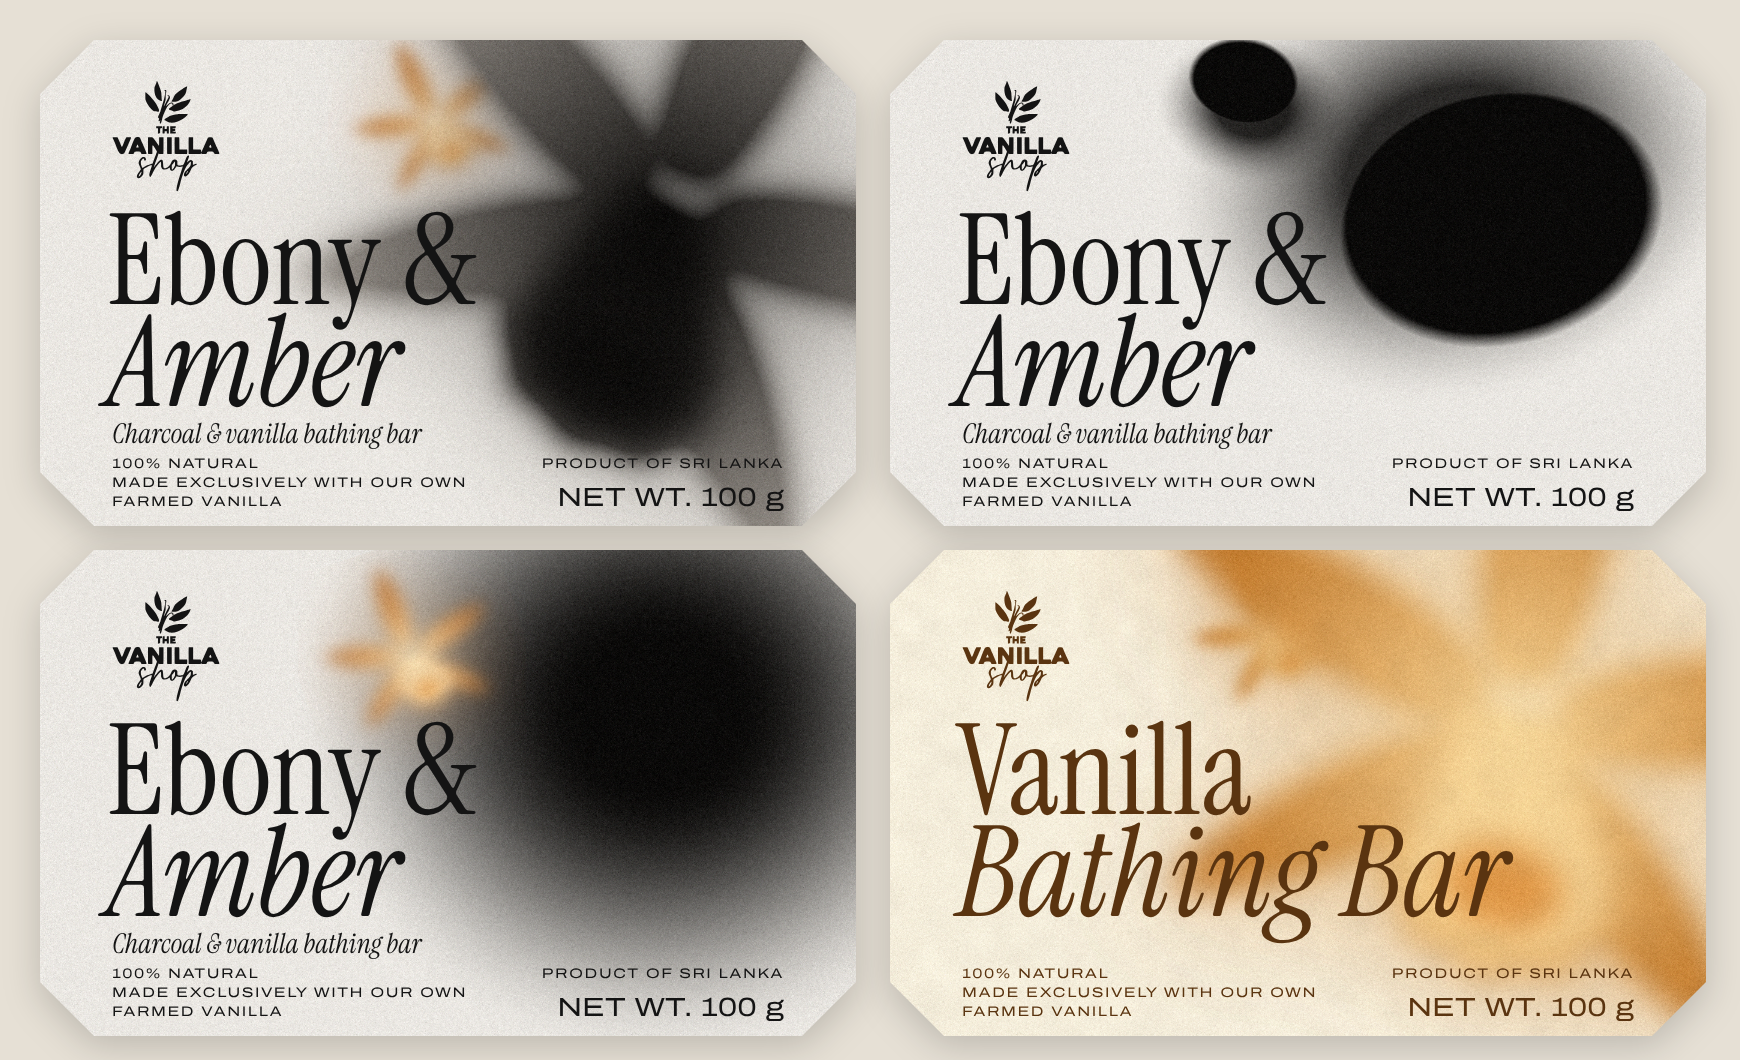
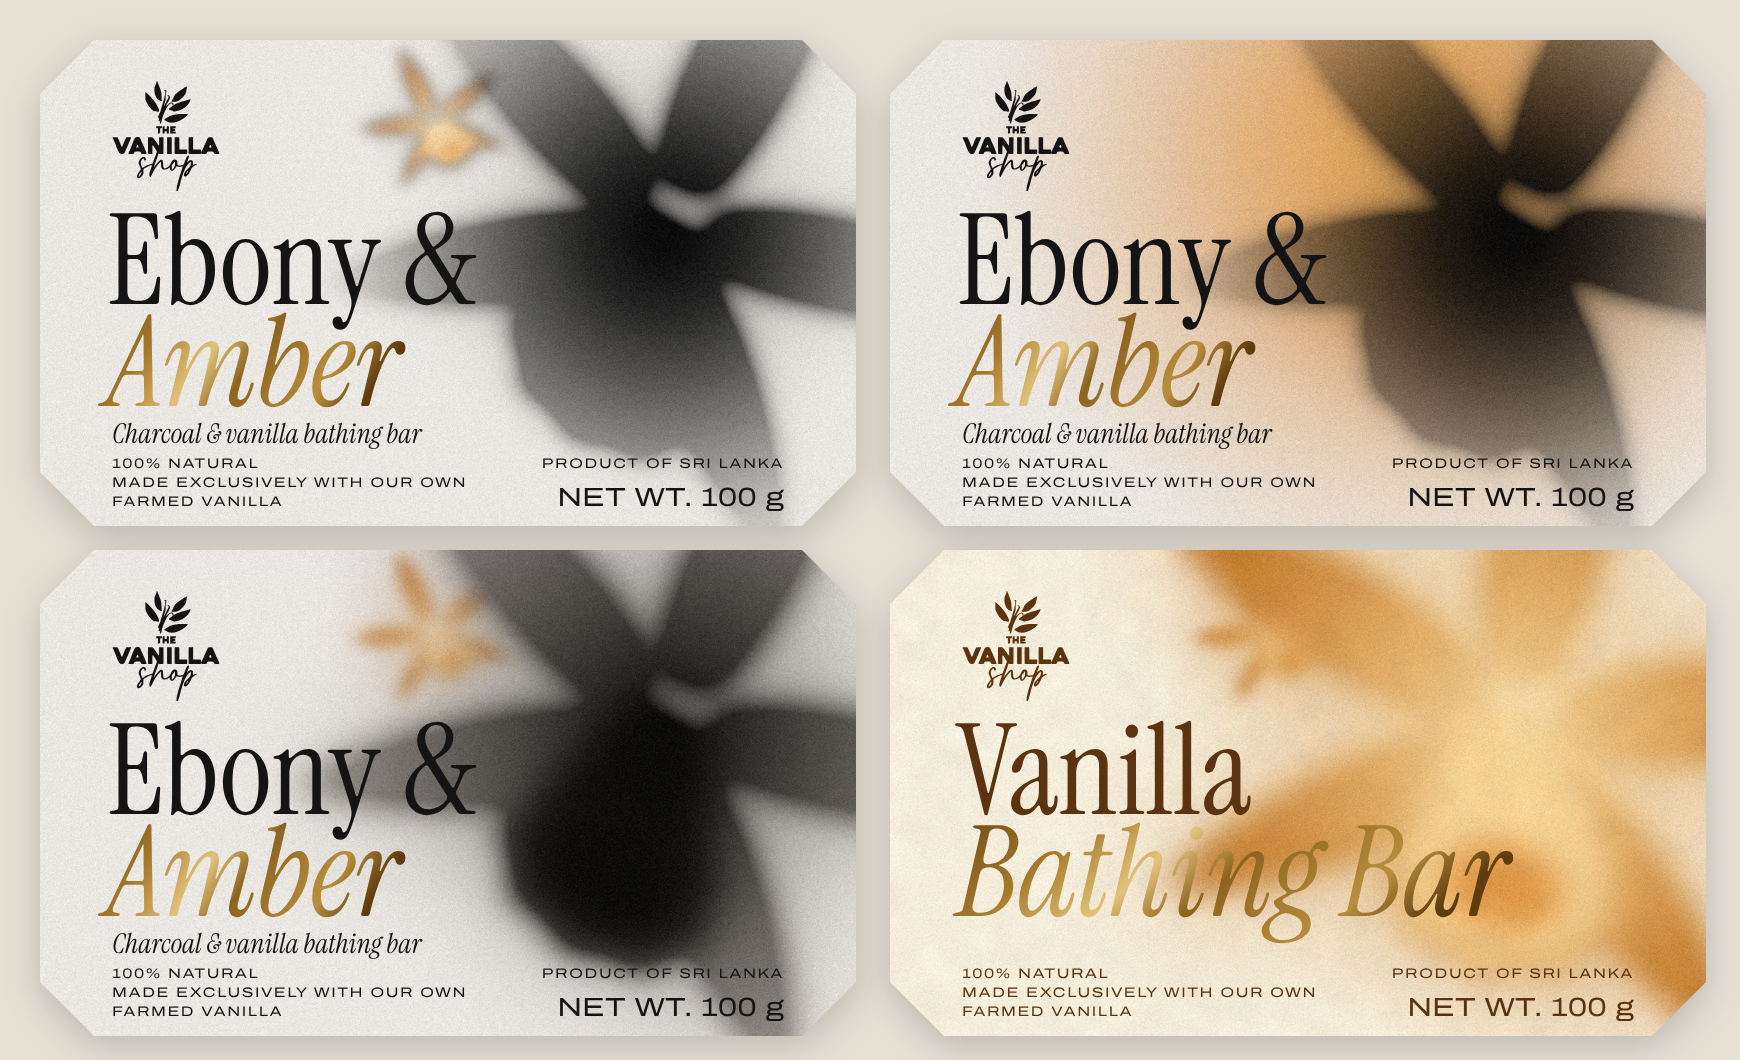
Soap Bloom duo: gold foil on the italic names; Ebony as a black shadow-flower, plain and amber-backlit
Claude-Session: https://claude.ai/code/session_01Psd6wLDi15Gf4F1fXEFmxS

diff --git a/vanilla-shop/studies/soap/bloom-duo/octo8.py b/vanilla-shop/studies/soap/bloom-duo/octo8.py
@@ -11,6 +11,8 @@ SOAPS={'vanilla':dict(small=None,big='Vanilla',kind='BATHING BAR',dk='#4A2C08',b
        'ebony':dict(small='Ebony &',big='Amber',kind='CHARCOAL & VANILLA BATHING BAR',dk='#1F1B19',bgB='#1F1B19'),
        'aloe':dict(small='Vanilla &',big='Aloe Vera',kind='VANILLA & ALOE BATHING BAR',dk='#16301C',bgB='#3F7A47')}
 ORDER=['vanilla','rosette','ebony','aloe']
+FOIL2=('<linearGradient id="foil2" x1="0" y1="0" x2="1" y2="0.35"><stop offset="0" stop-color="#5E3C0E"/><stop offset="0.28" stop-color="#A67A2C"/>'
+       '<stop offset="0.46" stop-color="#E2C27A"/><stop offset="0.6" stop-color="#8C6420"/><stop offset="0.85" stop-color="#B98E3E"/><stop offset="1" stop-color="#5E3C0E"/></linearGradient>')
 FOIL=('<linearGradient id="foil" x1="0" y1="0" x2="1" y2="1"><stop offset="0" stop-color="#8A6424"/><stop offset="0.3" stop-color="#F6DE97"/>'
       '<stop offset="0.5" stop-color="#B98B3A"/><stop offset="0.72" stop-color="#FFF0BE"/><stop offset="1" stop-color="#93692A"/></linearGradient>')
 def T(x,y,s,t,f='G',c='#000',a='start',tr=0): return f'<text x="{x}" y="{y}" font-family="{f}" font-size="{s}" fill="{c}" text-anchor="{a}" letter-spacing="{tr}">{t}</text>'
@@ -153,19 +155,19 @@ def front_bloom(k,art=None):
     b=[f'<image href="file:///tmp/claude-0/-home-user-PersonalEventPlanner305App/0712b206-ea71-562e-9a83-45f8f096455f/scratchpad/soap/b3/{art}" x="-7" y="-7" width="150" height="95" preserveAspectRatio="none"/>',
        logo(x+9,16,18,ink),
        f'<text x="{x-0.8}" y="44" font-family="ISR" font-size="21" fill="{ink}">{l1}</text>',
-       f'<text x="{x-0.8}" y="61" font-family="IS" font-size="21" fill="{ink}">{l2}</text>',
+       f'<text x="{x-0.8}" y="61" font-family="IS" font-size="21" fill="url(#foil2)">{l2}</text>',
        (f'<text x="{x}" y="67.2" font-family="IS" font-size="4.6" fill="{ink}">{FD[k]}</text>' if k!='vanilla' else ''),
        f'<text x="{x}" y="71.4" font-family="AE" font-size="2.3" fill="{ink}" letter-spacing="0.25">100% NATURAL</text>',
        f'<text x="{x}" y="74.5" font-family="AE" font-size="2.3" fill="{ink}" letter-spacing="0.25">MADE EXCLUSIVELY WITH OUR OWN</text>',
        f'<text x="{x}" y="77.6" font-family="AE" font-size="2.3" fill="{ink}" letter-spacing="0.25">FARMED VANILLA</text>',
        f'<text x="124" y="71.4" font-family="AE" font-size="2.3" fill="{ink}" letter-spacing="0.25" text-anchor="end">PRODUCT OF SRI LANKA</text>',
        f'<text x="124" y="77.6" font-family="AE" font-size="4.4" fill="{ink}" text-anchor="end">NET WT. 100 g</text>']
-    return (f'<svg xmlns="http://www.w3.org/2000/svg" viewBox="0 0 {W} {H}" width="100%" height="100%"><defs><clipPath id="oc"><path d="{octa()}"/></clipPath></defs>'
+    return (f'<svg xmlns="http://www.w3.org/2000/svg" viewBox="0 0 {W} {H}" width="100%" height="100%"><defs>{FOIL2}<clipPath id="oc"><path d="{octa()}"/></clipPath></defs>'
             f'<g clip-path="url(#oc)">{"".join(b)}</g></svg>')
 def front(opt,k):
     if opt=='E': return front_engr(k)
     if opt=='F': return front_bloom(k)
-    if opt in ('F1','F2','F3'): return front_bloom('ebony','D-ebony-'+opt[1]+'.png')
+    if opt in ('F1','F2','F3','F4','F5'): return front_bloom('ebony','D-ebony-'+opt[1]+'.png')
     if opt=='F0': return front_engr(k,'/tmp/claude-0/-home-user-PersonalEventPlanner305App/0712b206-ea71-562e-9a83-45f8f096455f/scratchpad/soap/b3/D-'+k+'.png')
     if opt=='R': return front_premium(k)
     if opt=='Q': return front_band(k)
@@ -246,4 +248,4 @@ def sheet(name,items,bg='#E6E0D5'):
     cells=''.join(f'<div style="position:absolute;left:{40+(i%2)*850}px;top:{40+(i//2)*510}px;width:816px;height:486px;filter:drop-shadow(0 10px 18px rgba(0,0,0,.18))">{front(o,k)}</div>' for i,(o,k) in enumerate(items))
     rows=(len(items)+1)//2
     open(O+name+'.html','w').write(f'<html><head><style>{CSS}html,body{{margin:0}}</style></head><body><div style="position:relative;width:1740px;height:{40+rows*510}px;background:{bg}">{cells}</div></body></html>')
-sheet('F-ebony-options',[('F1','ebony'),('F2','ebony'),('F3','ebony'),('F','vanilla')])
+sheet('F-ebony-options',[('F4','ebony'),('F5','ebony'),('F1','ebony'),('F','vanilla')])

diff --git a/vanilla-shop/studies/soap/bloom-duo/ebony2.py b/vanilla-shop/studies/soap/bloom-duo/ebony2.py
@@ -1,0 +1,36 @@
+# Ebony & Amber, round two. The flower in pure black that thins out to nothing towards the petal tips (no grey),
+# 4: on its own with a small amber flower; 5: lit from behind by an amber glow, an eclipse.
+import sys, numpy as np
+from PIL import Image, ImageFilter
+sys.path.insert(0,'/home/user/PersonalEventPlanner305App/vanilla-shop/brand/directions/bloom')
+import bloom
+O='/tmp/claude-0/-home-user-PersonalEventPlanner305App/0712b206-ea71-562e-9a83-45f8f096455f/scratchpad/soap/b3/'
+K=bloom.K; W,H=150,95; G=np.array([236,233,228],np.float32)
+yy,xx=np.mgrid[0:H*K,0:W*K].astype(np.float32)/K
+def finish(a,name):
+    rng=np.random.default_rng(11); h,w=a.shape[:2]
+    a=a+rng.normal(0,12,(h,w,1))+rng.normal(0,3,(h,w,3))
+    tooth=np.asarray(Image.fromarray(rng.normal(128,40,(h,w)).clip(0,255).astype(np.uint8)).filter(ImageFilter.GaussianBlur(1.6))).astype(np.float32)-128
+    Image.fromarray((a+0.35*tooth[...,None]).clip(0,255).astype(np.uint8)).save(O+name)
+def place(im,cx,cy):
+    c=Image.new('RGBA',(W*K,H*K),(0,0,0,0)); c.paste(im,(int((cx+7)*K-im.size[0]/2),int((cy+7)*K-im.size[1]/2)),im)
+    a=np.asarray(c).astype(np.float32)/255; return a[...,:3]*255,a[...,3]
+def black_flower(cx,cy,R,rot,blur,fall=1.6):
+    S=int(R*2.4); n=O+'L-eb2'; bloom.bloom(n,S,S,S/2,S/2,R,'#000000','#000000','#000000',None,blur=blur,grain=0)
+    a=np.asarray(Image.open(n+'.png')).astype(np.float32); y,x=np.mgrid[0:a.shape[0],0:a.shape[1]].astype(np.float32)/K
+    r=np.hypot(x-S/2,y-S/2)/R; f=np.clip(1-r**fall,0,1)                       # solid at the heart, gone by the tips
+    al=np.clip(a[...,3]/255*1.3,0,1)*f
+    im=Image.fromarray(np.dstack([np.full(al.shape+(3,),9,np.float32),al*255]).astype(np.uint8),'RGBA').rotate(rot,resample=Image.BICUBIC)
+    return place(im,cx,cy)
+def amber_flower(cx,cy,R,rot):
+    S=int(R*2.4); n=O+'L-eb2s'; bloom.bloom(n,S,S,S/2,S/2,R,'#B5651E','#F7DDB0','#E0913A',None,blur=2.3,grain=0)
+    return place(Image.open(n+'.png').rotate(rot,resample=Image.BICUBIC),cx,cy)
+def comp(a,rgb,al): return a*(1-al[...,None])+rgb*al[...,None]
+B=black_flower(104,32,70,-30,4.4); S=amber_flower(66,14,15,22)
+a=np.ones((H*K,W*K,3),np.float32)*G; a=comp(a,*S); a=comp(a,*B); finish(a,'D-ebony-4.png')
+a=np.ones((H*K,W*K,3),np.float32)*G
+d=np.hypot(xx-96,yy-26)/78; glow=np.clip(1-d,0,1)**1.3                      # amber light behind the flower
+amb=np.array([214,130,46],np.float32); hot=np.array([246,196,120],np.float32)
+a=comp(a,np.broadcast_to(amb,a.shape),glow*1.0); a=comp(a,np.broadcast_to(hot,a.shape),np.clip(1-d*1.8,0,1)**1.5*0.8)
+a=comp(a,*B); finish(a,'D-ebony-5.png')
+print('ok')
